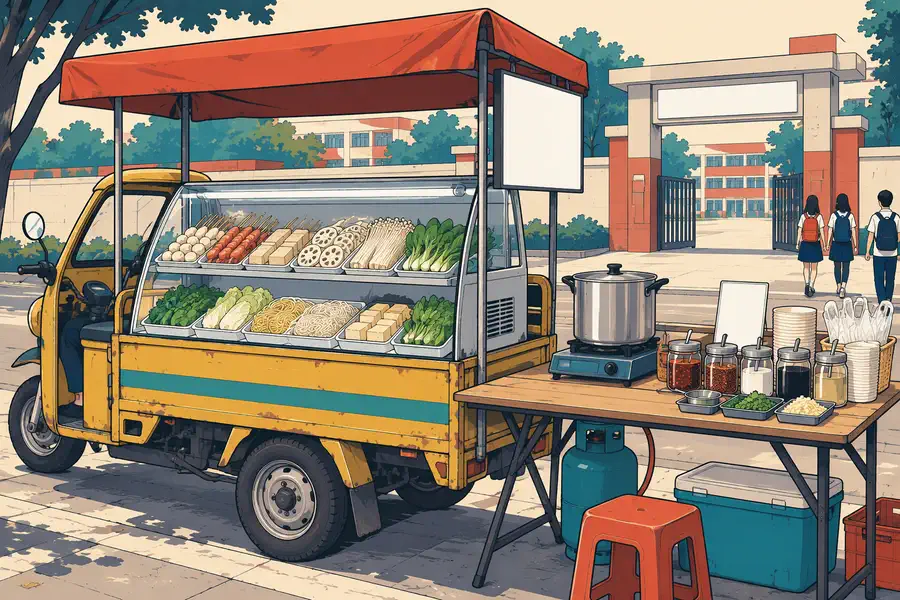
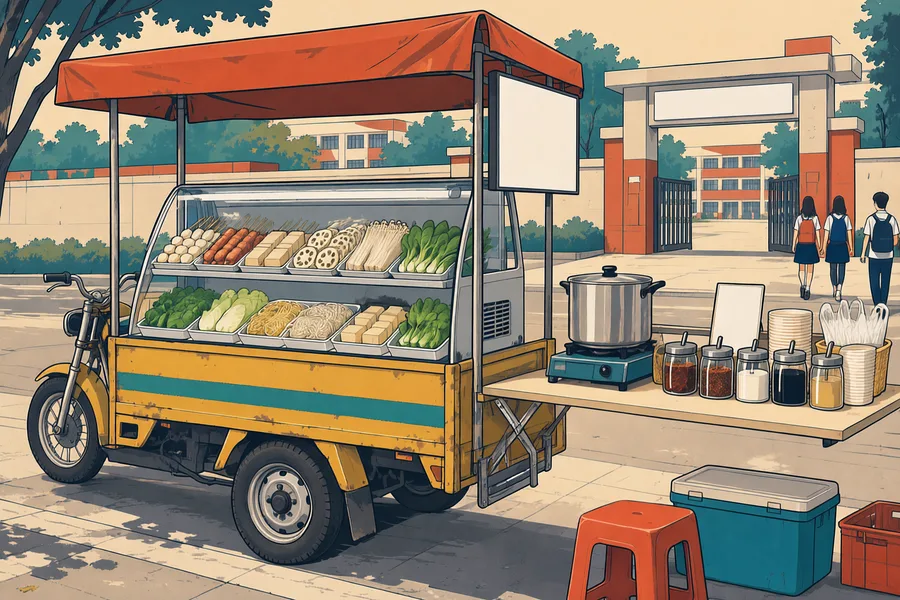
五十七·换入单执行:tier-1 v3 与 business v4 同批覆盖在库,车形长相争议销账
- tier-1.webp 698de094(88,484B) -> f47ca30e(118,442B) 900x600
- business.webp 936ae209(338,496B) -> f2bf7809(277,720B) 900x1800(兼开场镜6,字幕节拍不动)
- 整文件覆盖+文件名不变 => 代码零改动;换后落地文件回读 sha256/md5/字节与候选全同,ffprobe 尺寸一致,解码零报错
- 四道门全绿零漂移:回归 ALL PASS / build 产物哈希未变 / sweep 491行 diff0 / m3 566行 diff0
- 排查表加「五、表末更正」追加段,原36行取证快照不回填
- 车辆档长相参照正本自此 = tier-1 v3 + business v4 这一对

diff --git a/v4.9.2-delta-20261031.md b/v4.9.2-delta-20261031.md
@@ -2991,3 +2991,47 @@ v3 从**落地 webp 编码文件**回读放大验（非生成器小样）：
 **零在库素材改动**（v3/v4 两份候选与对照表都在仓根，不进 `game/public/`），零数值零代码改动；STYLE-FLATPLUS 系口径文档不参与构建。本批重跑四道门照旧全绿：回归 `✓ ALL PASS`；build 产物哈希未变（`index-Bnc6d1vD.js` 125.97 kB / `index-KjhW03rD.css` 23.07 kB）；sweep 491 行同 r14 **diff 0**；m3 566 行同 r14 **diff 0**。**sweep 零漂移**。
 
 - **⊘**：v4 是否真「并排一眼同一台车」是店主眼睛的最终事，我这边四项各自达标但**不替她签字**；发布连接器（公网仍旧版）与 5 项真机签核继续挂账。
+
+## 五十七、换入单执行（`task-stall-swap-in-20261103.md`，`62455f9`）：tier-1 v3 与 business v4 同批覆盖在库，车形长相争议销账
+
+Orange 换入单落仓（店主 2026-11-03 已过眼点头）。本节记执行结果：两张在库图**同批**替换、四道门重跑、新旧哈希逐条回报。原行原节一律不回填。
+
+### 1. 换入与新旧对照（换前先取旧哈希，之前从未采集过）
+
+| 在库文件 | | sha256 | md5 | 字节 | 尺寸 |
+|---|---|---|---|---|---|
[3 lines of base64/hex data omitted]
+| 〃 | **新** | `f2bf780955a7d1b4793ed88f5802a469572aab1bfbf52c9c22030cda4f` | `eee2a7b66b89345d25f886984a82ca54` | 277,720 | 900×1800 |
+
+- 源候选：`tier-1-candidate-v3.webp`（`f47ca30e…edcf`）与 `business-candidate-v4.webp`（`f2bf7809…cda4f`）。business 的新 sha256 与单上点名的 `f2bf7809…cda4f` **逐字符一致**。
+- **换入方式 = 整文件覆盖、文件名不变** ⇒ 代码零改动：`intro.js` 的 `INTRO_SHOTS[5].art='business'`、`main.js` 的场景头图引用照旧有效，无需改任何一行。
+- 换后从**落地文件**回读核验：两张 sha256/md5/字节与候选**完全相同**（即逐字节同一张图，不是「看着像」），`ffprobe` 解出 `webp,900,600` 与 `webp,900,1800`，尺寸与单上要求一致。
+- 候选正本（v3/v4）连同被否的 v1/v2/v3-business 记录图仍留在仓根，不删；在库 `game/public/img/` 从此以新图为准。
+
+### 2. 四道门（换入后重跑，全部照旧）
+
+| 门 | 结果 |
+|---|---|
+| `node test_regression.js` | `✓ ALL PASS`（含「六镜图全落盘且只多五张：第 6 镜复用 `business.webp`」那条照旧绿） |
+| `npm run build` | 产物哈希未变：`index-Bnc6d1vD.js` 125.97 kB / `index-KjhW03rD.css` 23.07 kB |
+| `sweep_calibration.js` | 491 行，与 `sweep-out-r14.txt` **diff 0** |
+| `m3_reference.js` | 566 行，与 `m3-out-r14.txt` **diff 0** |
+
+**零数值改动、零代码改动、零漂移**；改动面只有两张图。
+
+### 3. 排查表更正 + 销账
+
+- `stall-anchor-audit-20261103.md` 新增「**五、表末更正**」：第 2 行 `business`（拼接-重）与第 3 行 `tier-1`（一台车合格·长相≠锚）换入后状态与新旧哈希在此追加；**原表 36 行的判定与依据原文不动**，那是当时的取证。
+- 按单末条：**本档长相争议就此销账**，车辆档长相参照正本从此 = **`tier-1.webp`（v3）与 `business.webp`（v4）这一对**；今后再出同档图，拿这两张作参照输入并过「并排一眼同一台车」四项（篷形/柜形/车身贴线/关键部件位置）。
+- `task-stall-swap-in-20261103.md` 属 Orange 签署文件，不代签、不改动，执行结果以本节为准。
+
+### 4. 连带（继续挂账，不在本批解决）
+
+1. **开场镜6 画面已随之改变**（`business.webp` 兼镜6）：字幕与节拍一字一毫秒未动，但**画面是新图**——店主需重过一眼镜6；本轮换入依据的是她对候选的过眼，不代替她对成品动效的签字。
+2. 存档宣传片 `store-assets/store-promo-720x1280.mp4` 内嵌仍是返修前旧图，随撤单不再重制，**不因此单复活**；风险由店主知情承担（§五十五.5.2 已登）。
+3. **发布连接器未通 ⇒ 公网仍是旧版图**：玩家侧此刻看到的 tier-1/business 还是 `698de094…`／`936ae209…` 这两张。换入只落在仓库，上线要等发布。
+4. 店主的 5 项真机签核（热气浓淡／滚数闹不闹／王老板三下／BGM／开场 45 秒）照旧挂账。
+
+- **⊘**：换入后「并排一眼同一台车」的最终认定权在店主的眼睛；我这边四项各自达标且逐字节可追溯，但不替她签字。

diff --git a/stall-anchor-audit-20261103.md b/stall-anchor-audit-20261103.md
@@ -70,3 +70,18 @@
 - 表里「依据」列写的是**图里看到的具体部件**（几个底盘、几顶篷、柜落在哪、撑接到哪），不写形容词。
 - 判定**只判结构**（一台车 / 冷热分体 / 牌面空白），不判美观、不判压缩后清晰度——那些是店主的真机观感。
 - **⊘**：本表无法在纸面上给出「重出后一定合格」的担保；重出图仍走同一套放大验收 + 店主过眼。
+
+## 五、表末更正（追加，2026-11-03 换入后）
+
+> 上面 36 行的「判定／依据」是**当时的取证快照，原文不回填**。换入后的实际状态以本节为准，逐行对应上表 `#`。
+
+| # | 文件 | 表内原判 | 换入后状态（正本） | 旧 → 新 sha256 / 字节 |
+|---|---|---|---|---|
[2 lines of base64/hex data omitted]
+| 15 | `game/public/img/event-wang-copycat.webp` | 拼接-重 → 重出 | **已换入**（§五十五，本表之外先行）。山寨长相可仿、结构仍一台车。 | `921370d7…ad948` 39,950 → `7aeab605…cdb9` 48,368 |
+
+- **长相参照易主**：车辆档今后出图，参照输入 = **`tier-1.webp`（v3）+ `business.webp`（v4）这一对**，锚图 `stall.webp` 管结构。判据见 `STYLE-FLATPLUS.md`「一台车」＋「长相同一（并排一眼同一台车）」两条。
+- **换入方式**：整文件覆盖、**文件名不变** ⇒ `intro.js`／`main.js` 零改动；换后从落地文件回读，sha256／md5／字节与候选**完全相同**，`ffprobe` 解出尺寸与单上一致。
+- **四道门换后重跑全绿、零漂移**：回归 `✓ ALL PASS`；build 产物哈希未变（`index-Bnc6d1vD.js` 125.97 kB／`index-KjhW03rD.css` 23.07 kB）；sweep 491 行 diff 0；m3 566 行 diff 0。
+- **⊘ 尚未生效到玩家侧**：发布连接器未通，**公网仍是旧版图**（玩家看到的还是 `936ae209…`／`698de094…`）。本节说的是仓库正本，不是线上。
